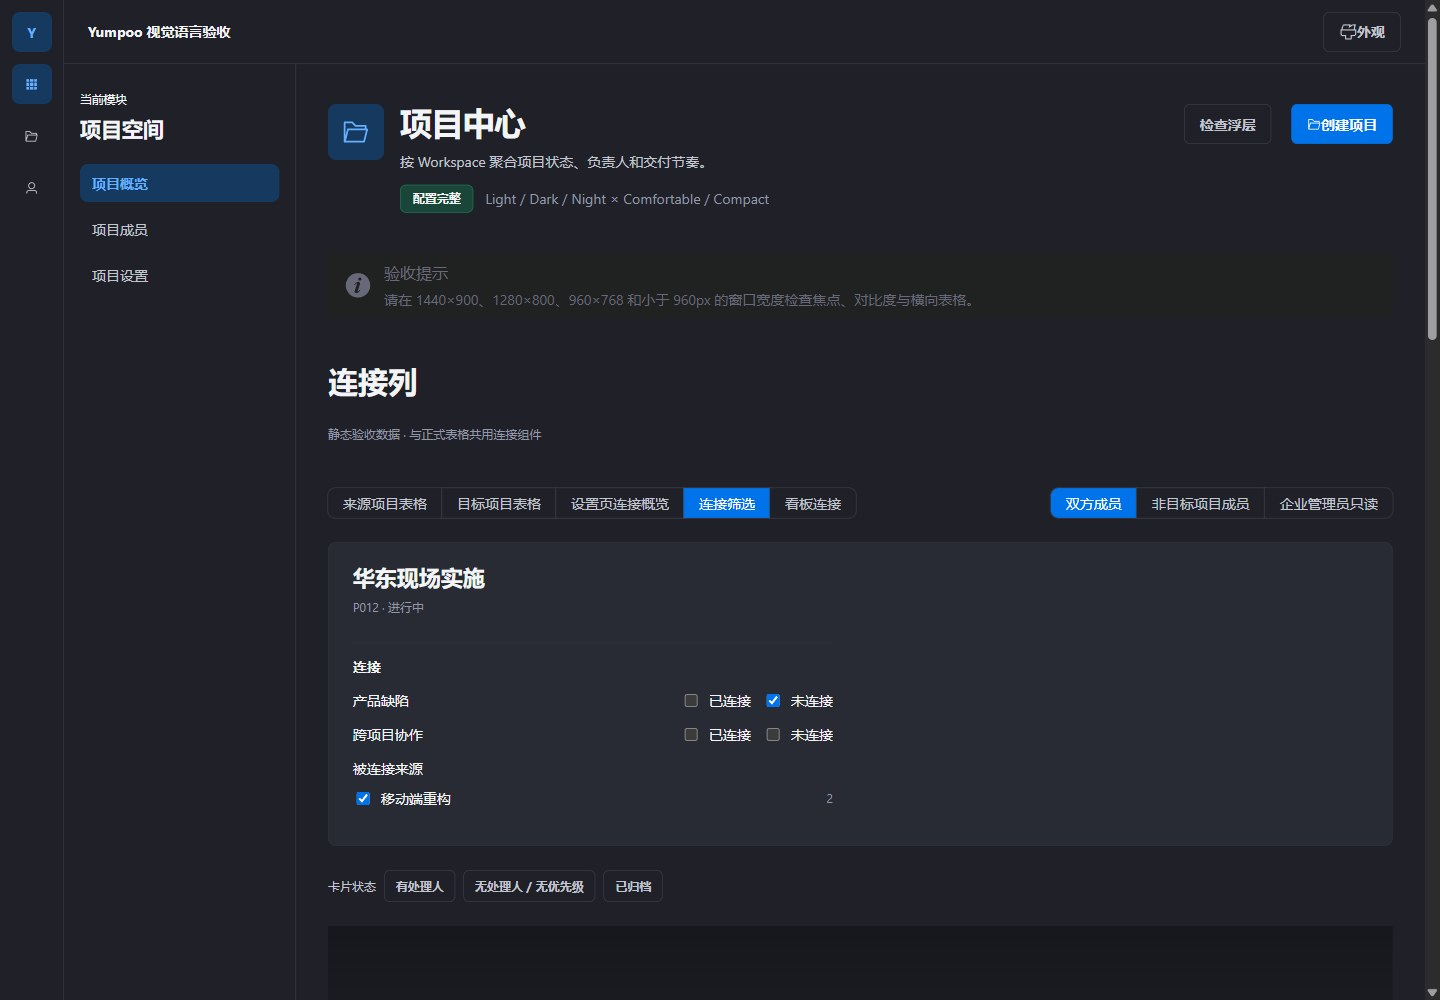
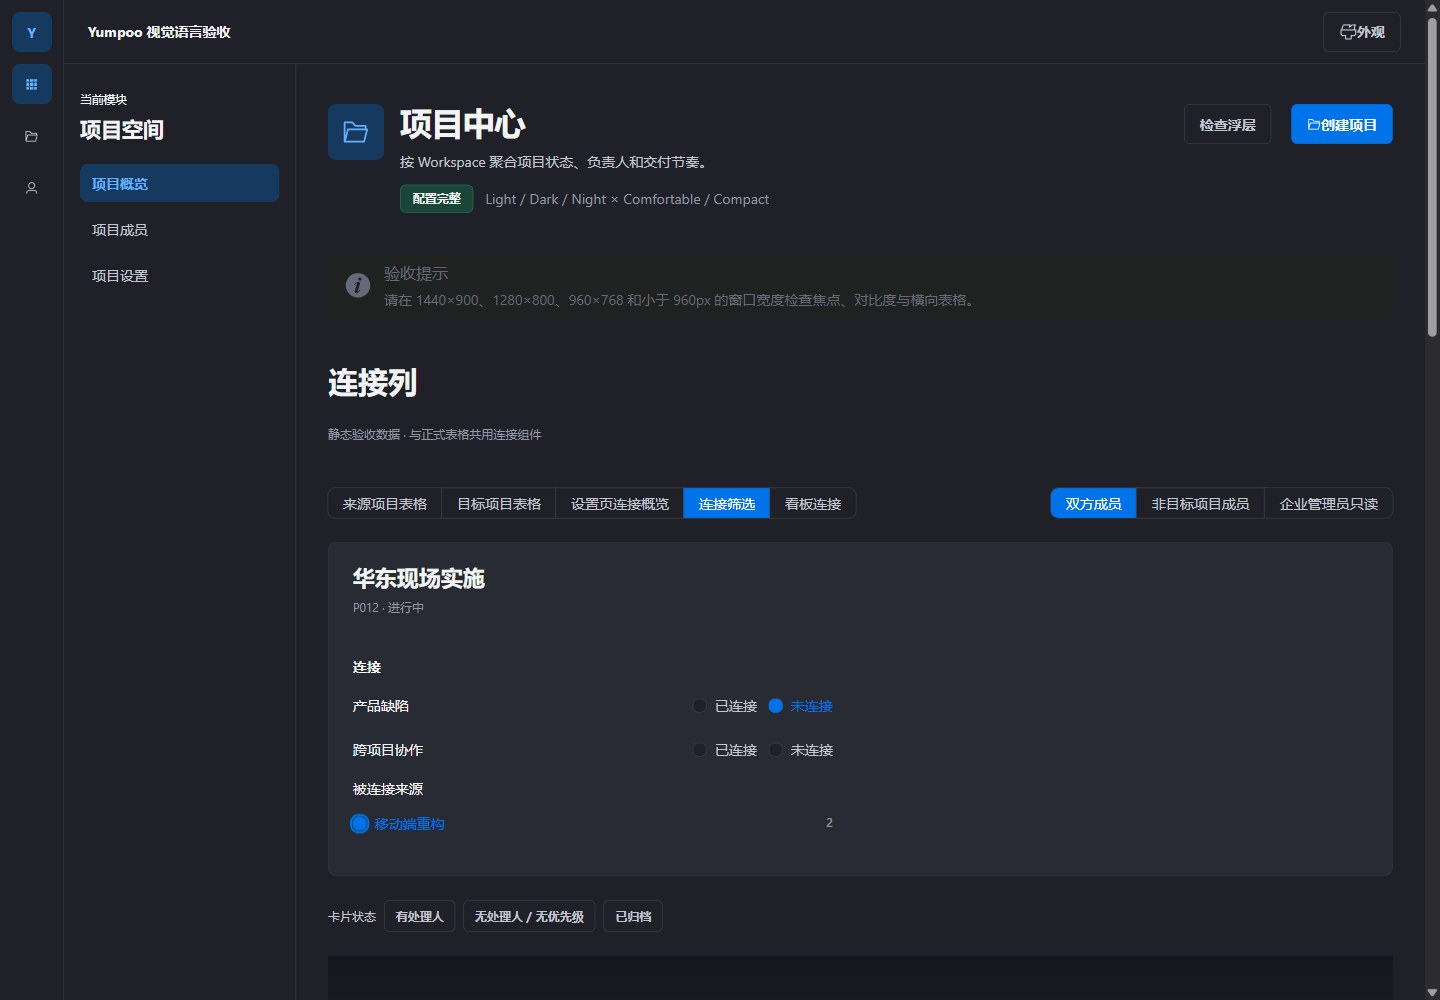
fix(workitem): 复用既有筛选复选框组件 (UP5a)

diff --git a/frontend/web-app/src/components/projects/connect/ConnectFilterSection.vue b/frontend/web-app/src/components/projects/connect/ConnectFilterSection.vue
@@ -1,4 +1,5 @@
 <script setup lang="ts">
+import { ElCheckbox } from 'element-plus'
 import type { ConnectColumn, ProjectWorkItemFilterOption } from '@yumpoo/api-client'
 
 defineProps<{
@@ -28,36 +29,31 @@ const emit = defineEmits<{
       class="connect-filters__column"
     >
       <span>{{ column.name }}</span>
-      <label><input
-        type="checkbox"
+      <el-checkbox
         :aria-label="`${column.name} 已连接`"
-        :checked="connectedColumnIds.has(column.id)"
-        @change="emit('change', 'connectedColumnIds', column.id, ($event.target as HTMLInputElement).checked)"
-      >已连接</label>
-      <label><input
-        type="checkbox"
+        :model-value="connectedColumnIds.has(column.id)"
+        @change="emit('change', 'connectedColumnIds', column.id, $event === true)"
+      >已连接</el-checkbox>
+      <el-checkbox
         :aria-label="`${column.name} 未连接`"
-        :checked="unconnectedColumnIds.has(column.id)"
-        @change="emit('change', 'unconnectedColumnIds', column.id, ($event.target as HTMLInputElement).checked)"
-      >未连接</label>
+        :model-value="unconnectedColumnIds.has(column.id)"
+        @change="emit('change', 'unconnectedColumnIds', column.id, $event === true)"
+      >未连接</el-checkbox>
     </div>
     <div
       v-if="incoming.length"
       class="connect-filters__incoming"
     >
       <span>被连接来源</span>
-      <label
+      <el-checkbox
         v-for="project in incoming"
         :key="project.value"
+        :aria-label="`来自 ${project.label}`"
+        :model-value="incomingProjectIds.has(project.value)"
+        @change="emit('change', 'incomingProjectIds', project.value, $event === true)"
       >
-        <input
-          type="checkbox"
-          :aria-label="`来自 ${project.label}`"
-          :checked="incomingProjectIds.has(project.value)"
-          @change="emit('change', 'incomingProjectIds', project.value, ($event.target as HTMLInputElement).checked)"
-        >
         <span>{{ project.label }}</span><small>{{ project.count }}</small>
-      </label>
+      </el-checkbox>
     </div>
   </section>
 </template>
@@ -67,8 +63,8 @@ const emit = defineEmits<{
 .connect-filters h4, .connect-filters p { margin: 0; }
 .connect-filters p, .connect-filters small { color: var(--yp-text-muted); }
 .connect-filters__column { display: grid; grid-template-columns: minmax(0, 1fr) auto auto; gap: var(--yp-space-3); align-items: center; }
-.connect-filters label { display: flex; gap: var(--yp-space-2); align-items: center; cursor: pointer; }
-.connect-filters input { accent-color: var(--yp-action-primary); }
+.connect-filters .el-checkbox { margin-right: 0; }
 .connect-filters__incoming { display: grid; gap: var(--yp-space-2); }
+.connect-filters__incoming :deep(.el-checkbox__label) { display: flex; flex: 1; gap: var(--yp-space-2); }
 .connect-filters__incoming small { margin-left: auto; }
 </style>

diff --git a/frontend/web-app/src/visual-acceptance/ConnectColumnsPreview.spec.ts b/frontend/web-app/src/visual-acceptance/ConnectColumnsPreview.spec.ts
@@ -27,9 +27,9 @@ it('连接验收覆盖单/多目标、空单元格、只读、被连接、设置
   expect(wrapper.getComponent(ConnectionCardDialog).props('connection').target).toMatchObject({ assignee: null, priority: null })
   wrapper.getComponent(ConnectionCardDialog).vm.$emit('update:open', false)
   wrapper.findAllComponents(ElRadioGroup)[0]!.vm.$emit('update:modelValue', 'filters'); await flushPromises()
-  await wrapper.get('input[aria-label="产品缺陷 已连接"]').setValue(true)
-  await wrapper.get('input[aria-label="产品缺陷 未连接"]').setValue(true)
-  expect((wrapper.get('input[aria-label="产品缺陷 已连接"]').element as HTMLInputElement).checked).toBe(false)
+  await wrapper.get('[aria-label="产品缺陷 已连接"] input').setValue(true)
+  await wrapper.get('[aria-label="产品缺陷 未连接"] input').setValue(true)
+  expect((wrapper.get('[aria-label="产品缺陷 已连接"] input').element as HTMLInputElement).checked).toBe(false)
   wrapper.findAllComponents(ElRadioGroup)[0]!.vm.$emit('update:modelValue', 'kanban'); await flushPromises()
   const chips = wrapper.findAllComponents(ConnectKanbanConnections)
   expect(chips.map(component => component.props('connections').length)).toEqual([5, 0])

diff --git a/frontend/web-app/src/components/projects/connect/ConnectFilterSection.spec.ts b/frontend/web-app/src/components/projects/connect/ConnectFilterSection.spec.ts
@@ -10,9 +10,9 @@ describe('连接筛选', () => {
       columns: [column], incoming: [{ value: 'source', label: '来源项目', count: 23 }],
       connectedColumnIds: new Set([column.id]), unconnectedColumnIds: new Set<string>(), incomingProjectIds: new Set<string>(),
     } })
-    expect((wrapper.get(`[aria-label="${column.name} 已连接"]`).element as HTMLInputElement).checked).toBe(true)
-    await wrapper.get(`[aria-label="${column.name} 未连接"]`).setValue(true)
-    await wrapper.get('[aria-label="来自 来源项目"]').setValue(true)
+    expect((wrapper.get(`[aria-label="${column.name} 已连接"] input`).element as HTMLInputElement).checked).toBe(true)
+    await wrapper.get(`[aria-label="${column.name} 未连接"] input`).setValue(true)
+    await wrapper.get('[aria-label="来自 来源项目"] input').setValue(true)
     expect(wrapper.emitted('change')).toEqual([['unconnectedColumnIds', column.id, true], ['incomingProjectIds', 'source', true]])
     expect(wrapper.text()).toContain('23')
     wrapper.unmount()
